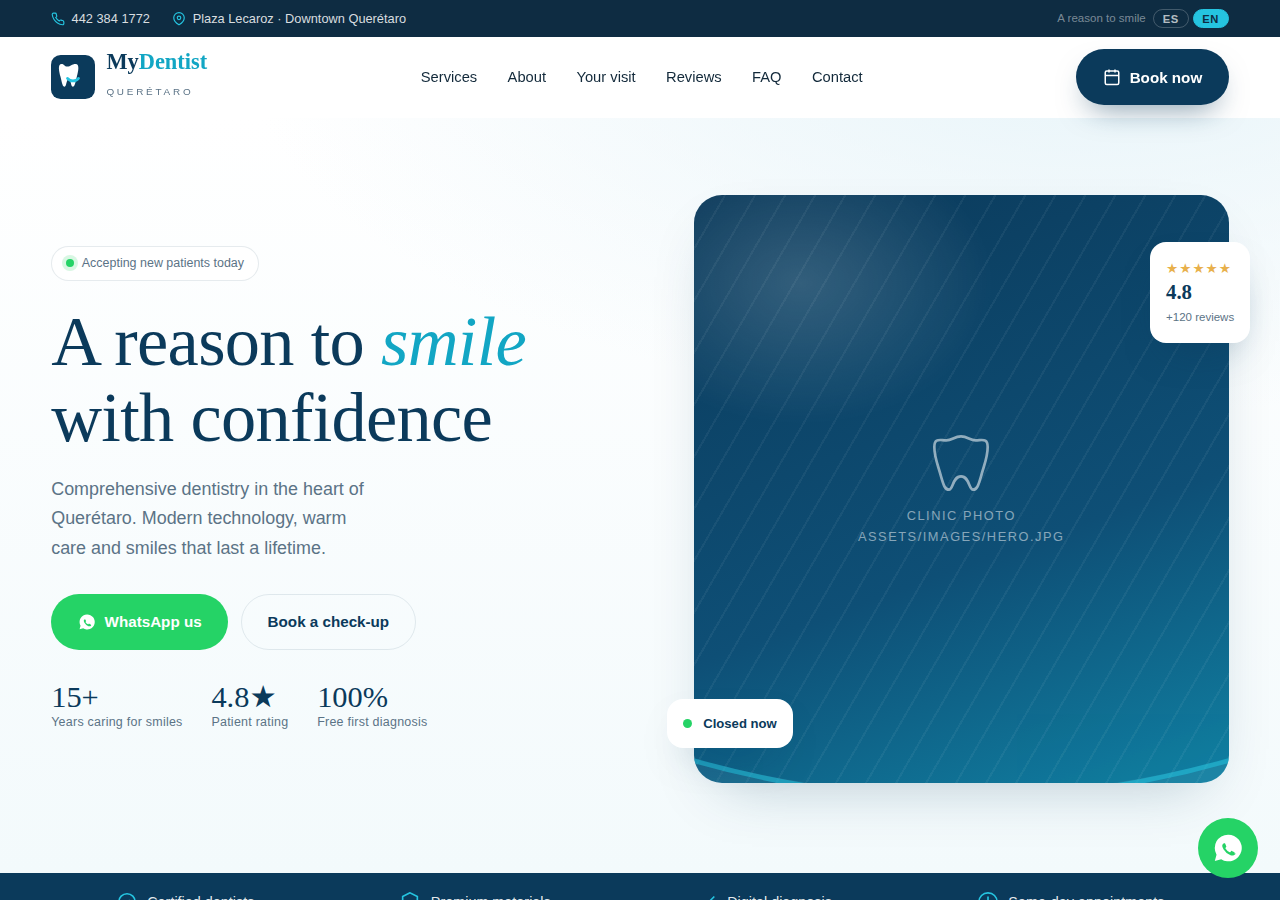
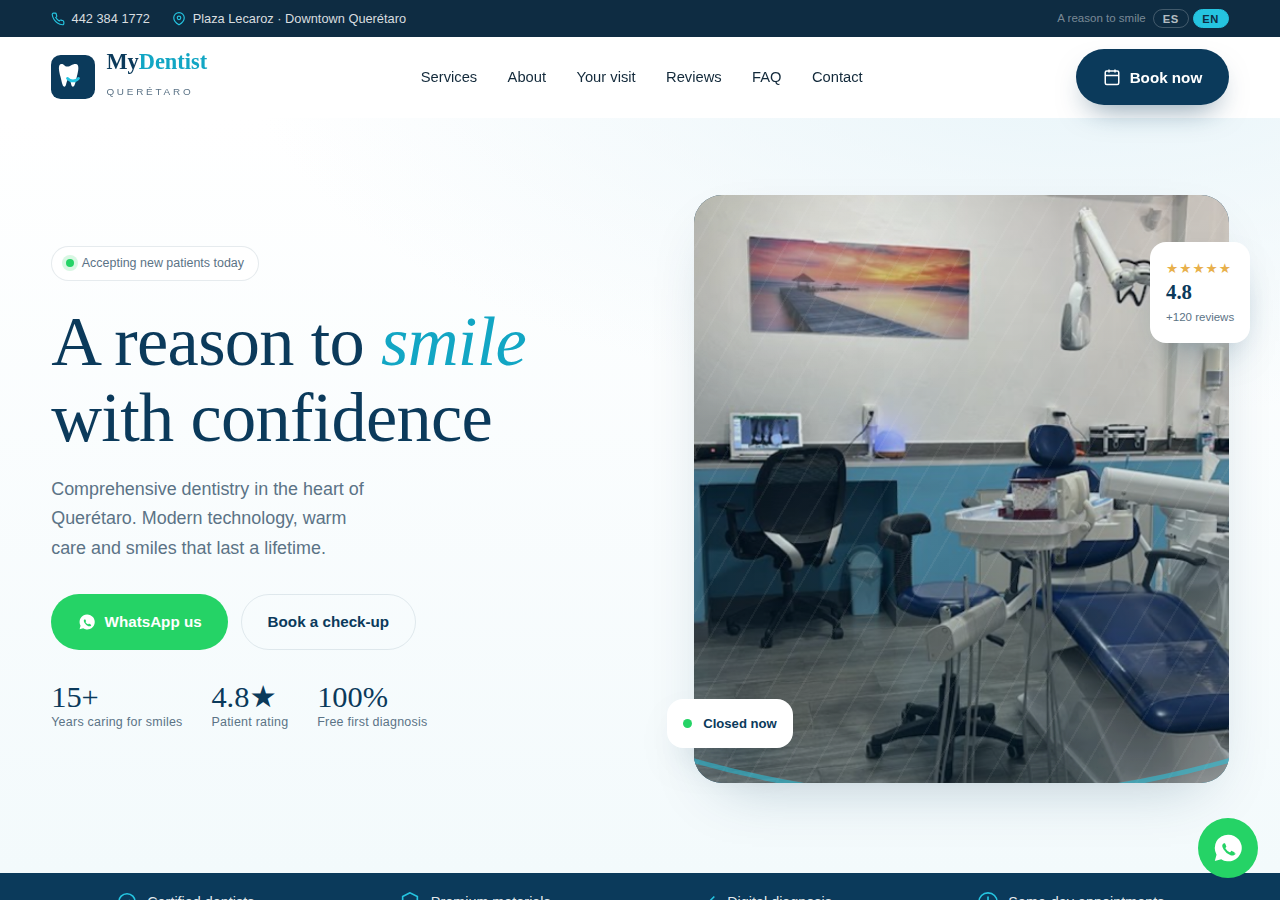
feat: integra las fotos reales de la clínica en las 3 webs
Sustituye los placeholders por las fotos subidas (assets/images/Imagen*.png):
- Hero: Imagen6 (gabinete completo, se ve la pantalla con imagen 3D)
- Sala de espera (v1): Imagen2 (recepción con logo VyDentist)
- Doctor/Nosotros: Imagen3 (Dr. Ernesto atendiendo)
Con degradados sutiles para legibilidad. Miniaturas del escaparate
(versiones.html) regeneradas con las fotos reales.

Changed region(s): [[0.5312, 0.2178, 0.9688, 0.8711]]

diff --git a/v1.html b/v1.html
@@ -356,10 +356,8 @@ html.js .reveal.in{opacity:1;transform:none}
     </div>
     <div class="hero-visual reveal">
       <div class="hv-inner">
-        <div class="ph-label">
-          <svg viewBox="0 0 24 24"><path d="M12 2c-2.5 0-3.3 1.5-5.5 1.5C4 3.5 2 2.5 2 6c0 4 1.3 6.5 2.5 11C5.5 20.5 6 22 7.5 22c1.6 0 1.3-5 4.5-5s2.9 5 4.5 5c1.5 0 2-1.5 3-5C20.7 12.5 22 10 22 6c0-3.5-2-2.5-4.5-2.5C15.3 3.5 14.5 2 12 2Z"/></svg>
-          <span data-i18n="hero.photo">Foto de la clínica<br>assets/images/hero.jpg</span>
-        </div>
+        <img src="assets/images/Imagen6.png" alt="Gabinete dental moderno de My Dentist Querétaro" style="position:absolute;inset:0;width:100%;height:100%;object-fit:cover">
+        <div class="hv-shade" style="position:absolute;inset:0;background:linear-gradient(180deg,rgba(11,58,91,.06),rgba(11,58,91,.28))"></div>
         <svg class="smile-arc" viewBox="0 0 500 120" preserveAspectRatio="none"><path d="M0 40 Q250 140 500 40 L500 120 L0 120 Z" fill="rgba(255,255,255,.06)"/><path d="M40 55 Q250 130 460 55" stroke="rgba(37,196,224,.6)" stroke-width="3" fill="none"/></svg>
       </div>
       <div class="float-card float-rating">
@@ -433,10 +431,8 @@ html.js .reveal.in{opacity:1;transform:none}
 <section class="sec why" id="por-que">
   <div class="wrap">
     <div class="why-visual reveal">
-      <div class="ph-label">
-        <svg viewBox="0 0 24 24"><path d="M3 21h18M5 21V7l7-4 7 4v14M9 9h.01M15 9h.01M9 13h.01M15 13h.01"/></svg>
-        <span data-i18n="why.photo">Interior de la clínica<br>assets/images/clinica.jpg</span>
-      </div>
+      <img src="assets/images/Imagen2.png" alt="Sala de espera de My Dentist Querétaro" style="position:absolute;inset:0;width:100%;height:100%;object-fit:cover">
+      <div style="position:absolute;inset:0;background:linear-gradient(180deg,transparent,rgba(11,58,91,.18))"></div>
     </div>
     <div class="why-copy reveal">
       <span class="eyebrow" data-i18n="why.eyebrow">Por qué My Dentist</span>
@@ -465,10 +461,8 @@ html.js .reveal.in{opacity:1;transform:none}
 <section class="sec about" id="nosotros">
   <div class="wrap">
     <div class="about-photo reveal">
-      <div class="ph-label">
-        <svg viewBox="0 0 24 24"><circle cx="12" cy="8" r="4"/><path d="M4 21c0-4 4-6 8-6s8 2 8 6"/></svg>
-        <span data-i18n="about.photo">Foto del equipo / doctor<br>assets/images/equipo.jpg</span>
-      </div>
+      <img src="assets/images/Imagen3.png" alt="Dr. Ernesto atendiendo en My Dentist Querétaro" style="position:absolute;inset:0;width:100%;height:100%;object-fit:cover">
+      <div style="position:absolute;inset:0;background:linear-gradient(180deg,transparent 55%,rgba(10,44,66,.35))"></div>
     </div>
     <div class="about-copy reveal">
       <span class="eyebrow" data-i18n="about.eyebrow">Quiénes somos</span>

diff --git a/v3.html b/v3.html
@@ -274,7 +274,7 @@ html.js .reveal.in{opacity:1;transform:none}
     </div>
     <figure class="hero-fig reveal">
       <div class="stamp"><span><b>My</b><span data-i18n="hero.stamp">sonríe</span></span></div>
-      <div class="frame"><div class="ph"><svg viewBox="0 0 24 24"><path d="M12 2c-2.5 0-3.3 1.5-5.5 1.5C4 3.5 2 2.5 2 6c0 4 1.3 6.5 2.5 11C5.5 20.5 6 22 7.5 22c1.6 0 1.3-5 4.5-5s2.9 5 4.5 5c1.5 0 2-1.5 3-5C20.7 12.5 22 10 22 6c0-3.5-2-2.5-4.5-2.5C15.3 3.5 14.5 2 12 2Z"/></svg><span data-i18n="hero.photo">Retrato / clínica<br>assets/images/hero.jpg</span></div></div>
+      <div class="frame"><img src="assets/images/Imagen6.png" alt="Gabinete dental moderno de My Dentist Querétaro" style="position:absolute;inset:0;width:100%;height:100%;object-fit:cover"></div>
       <figcaption data-i18n="hero.cap">— Odontología pensada para durar toda la vida.</figcaption>
     </figure>
   </div>
@@ -306,7 +306,7 @@ html.js .reveal.in{opacity:1;transform:none}
 
 <section class="sec about" id="nosotros">
   <div class="wrap">
-    <div class="fig reveal"><div class="ph"><svg viewBox="0 0 24 24"><circle cx="12" cy="8" r="4"/><path d="M4 21c0-4 4-6 8-6s8 2 8 6"/></svg><span data-i18n="about.photo">Retrato del doctor<br>assets/images/equipo.jpg</span></div></div>
+    <div class="fig reveal"><img src="assets/images/Imagen3.png" alt="Dr. Ernesto atendiendo en My Dentist Querétaro" style="position:absolute;inset:0;width:100%;height:100%;object-fit:cover"></div>
     <div class="reveal">
       <span class="kick" data-i18n="about.kick">Filosofía</span>
       <blockquote data-i18n-html="about.quote">Creemos que ir al dentista no debería dar miedo. Debería darte <em>una razón para sonreír</em>.</blockquote>

diff --git a/v2.html b/v2.html
@@ -282,7 +282,7 @@ html.js .reveal.in{opacity:1;transform:none}
     </div>
     <div class="hero-media reveal">
       <div class="hero-photo">
-        <div class="ph"><svg viewBox="0 0 24 24"><path d="M12 2c-2.5 0-3.3 1.5-5.5 1.5C4 3.5 2 2.5 2 6c0 4 1.3 6.5 2.5 11C5.5 20.5 6 22 7.5 22c1.6 0 1.3-5 4.5-5s2.9 5 4.5 5c1.5 0 2-1.5 3-5C20.7 12.5 22 10 22 6c0-3.5-2-2.5-4.5-2.5C15.3 3.5 14.5 2 12 2Z"/></svg><span data-i18n="hero.photo">Foto sonrisa / clínica<br>assets/images/hero.jpg</span></div>
+        <img src="assets/images/Imagen6.png" alt="Gabinete dental moderno de My Dentist Querétaro" style="position:absolute;inset:0;width:100%;height:100%;object-fit:cover">
       </div>
       <div class="pill p1"><span class="ic">★</span><span>4.8 · <span data-i18n="hero.reviews">+120 reseñas</span></span></div>
       <div class="pill p2"><span class="dot"></span><span id="heroOpen" data-i18n="hero.open">Abierto ahora</span></div>
@@ -335,7 +335,7 @@ html.js .reveal.in{opacity:1;transform:none}
 
 <section class="sec about" id="nosotros">
   <div class="wrap">
-    <div class="about-media reveal"><div class="ph"><svg viewBox="0 0 24 24"><circle cx="12" cy="8" r="4"/><path d="M4 21c0-4 4-6 8-6s8 2 8 6"/></svg><span data-i18n="about.photo">Foto del equipo / doctor<br>assets/images/equipo.jpg</span></div></div>
+    <div class="about-media reveal"><img src="assets/images/Imagen3.png" alt="Dr. Ernesto atendiendo en My Dentist Querétaro" style="position:absolute;inset:0;width:100%;height:100%;object-fit:cover"></div>
     <div class="reveal">
       <span class="tag" data-i18n="about.tag">Quiénes somos</span>
       <h2 data-i18n="about.title">Sonrisas cuidadas con corazón queretano</h2>
